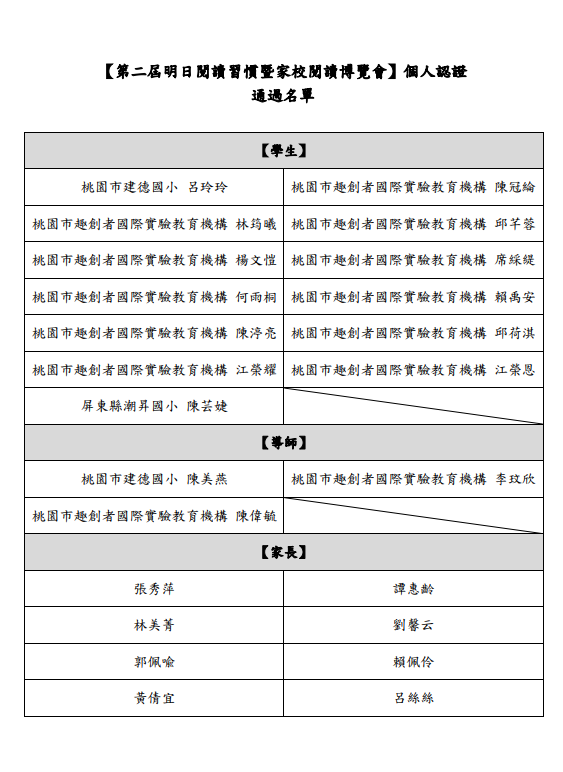
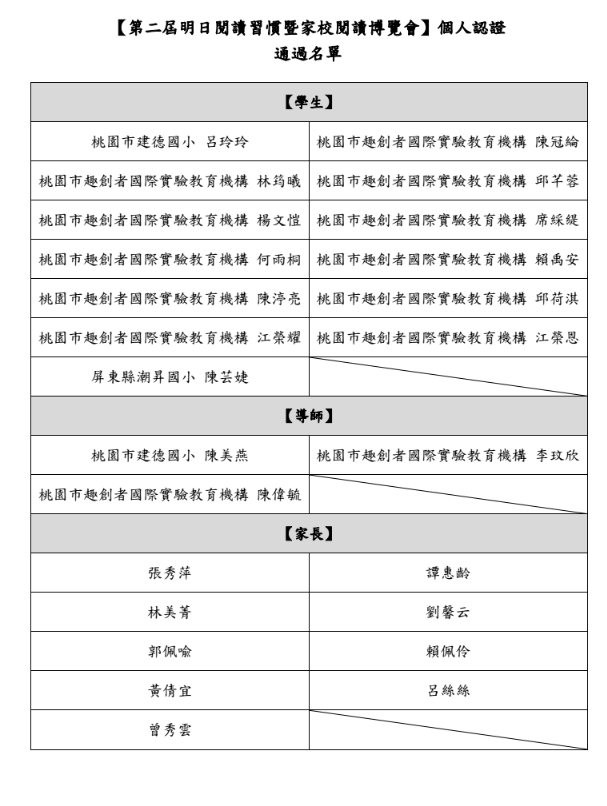
update certification

diff --git a/3rd_session/school/index.html b/3rd_session/school/index.html
@@ -581,7 +581,7 @@
                         <div class="apply-item">
                             <h5 class="phase-title text-center">報名時間</h5>
                             <p>
-                                即日起至115年10月7日（星期三）下午5時止。主辦單位將依報名優先順序及報名表件進行審核，並於五個工作天內寄發報名成功通知信。
+                                即日起至115年10月13日（星期二）下午5時止。主辦單位將依報名優先順序及報名表件進行審核，並於五個工作天內寄發報名成功通知信。
                             </p>
                         </div>
                         <div class="apply-item">
